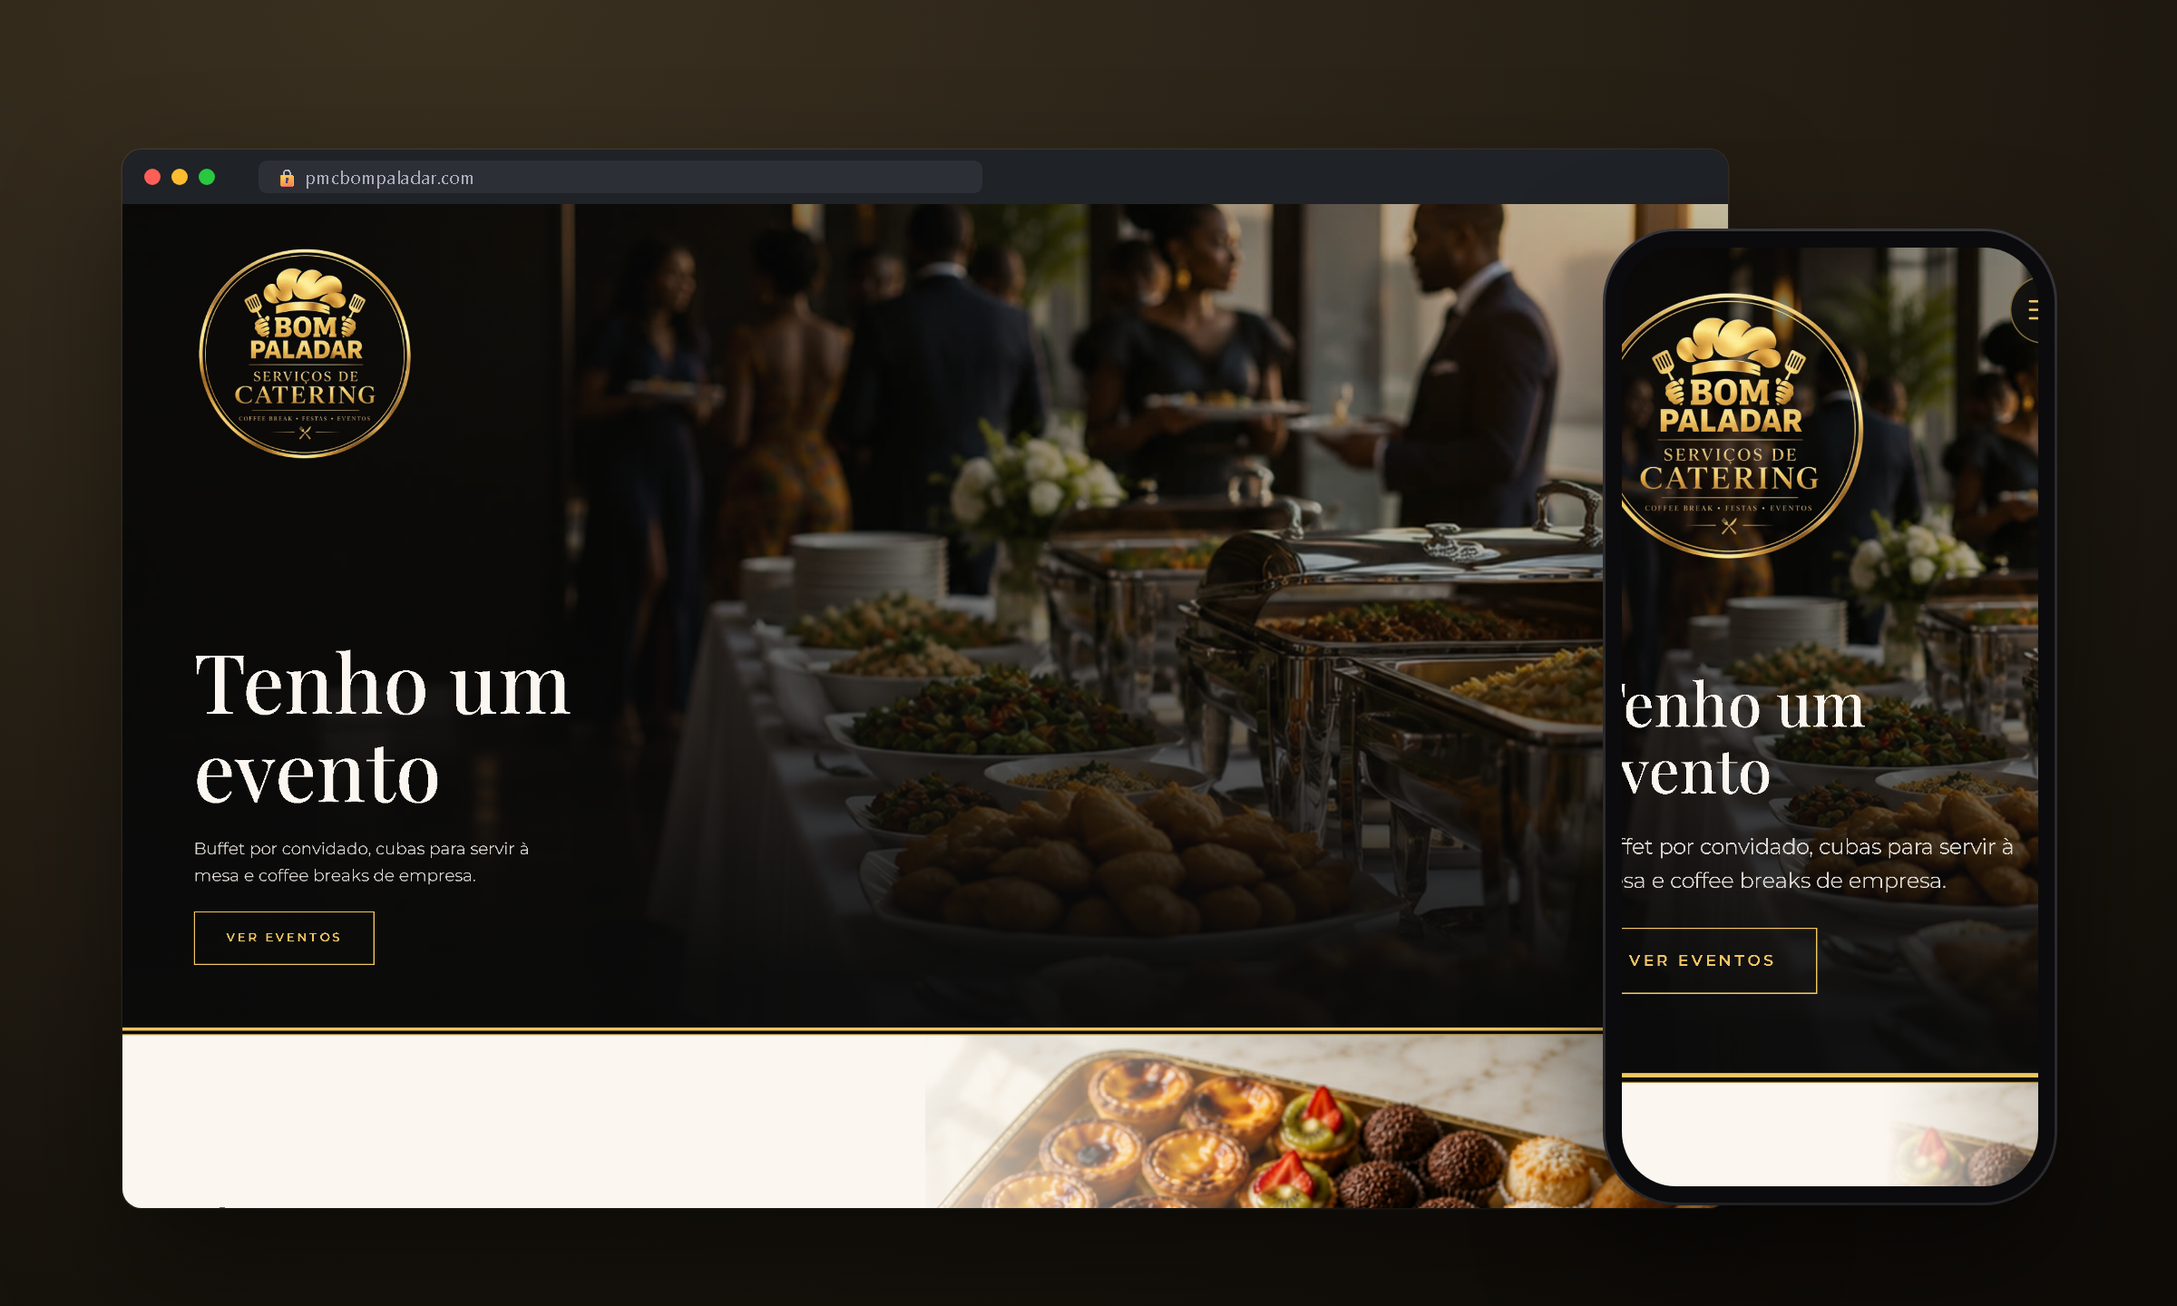
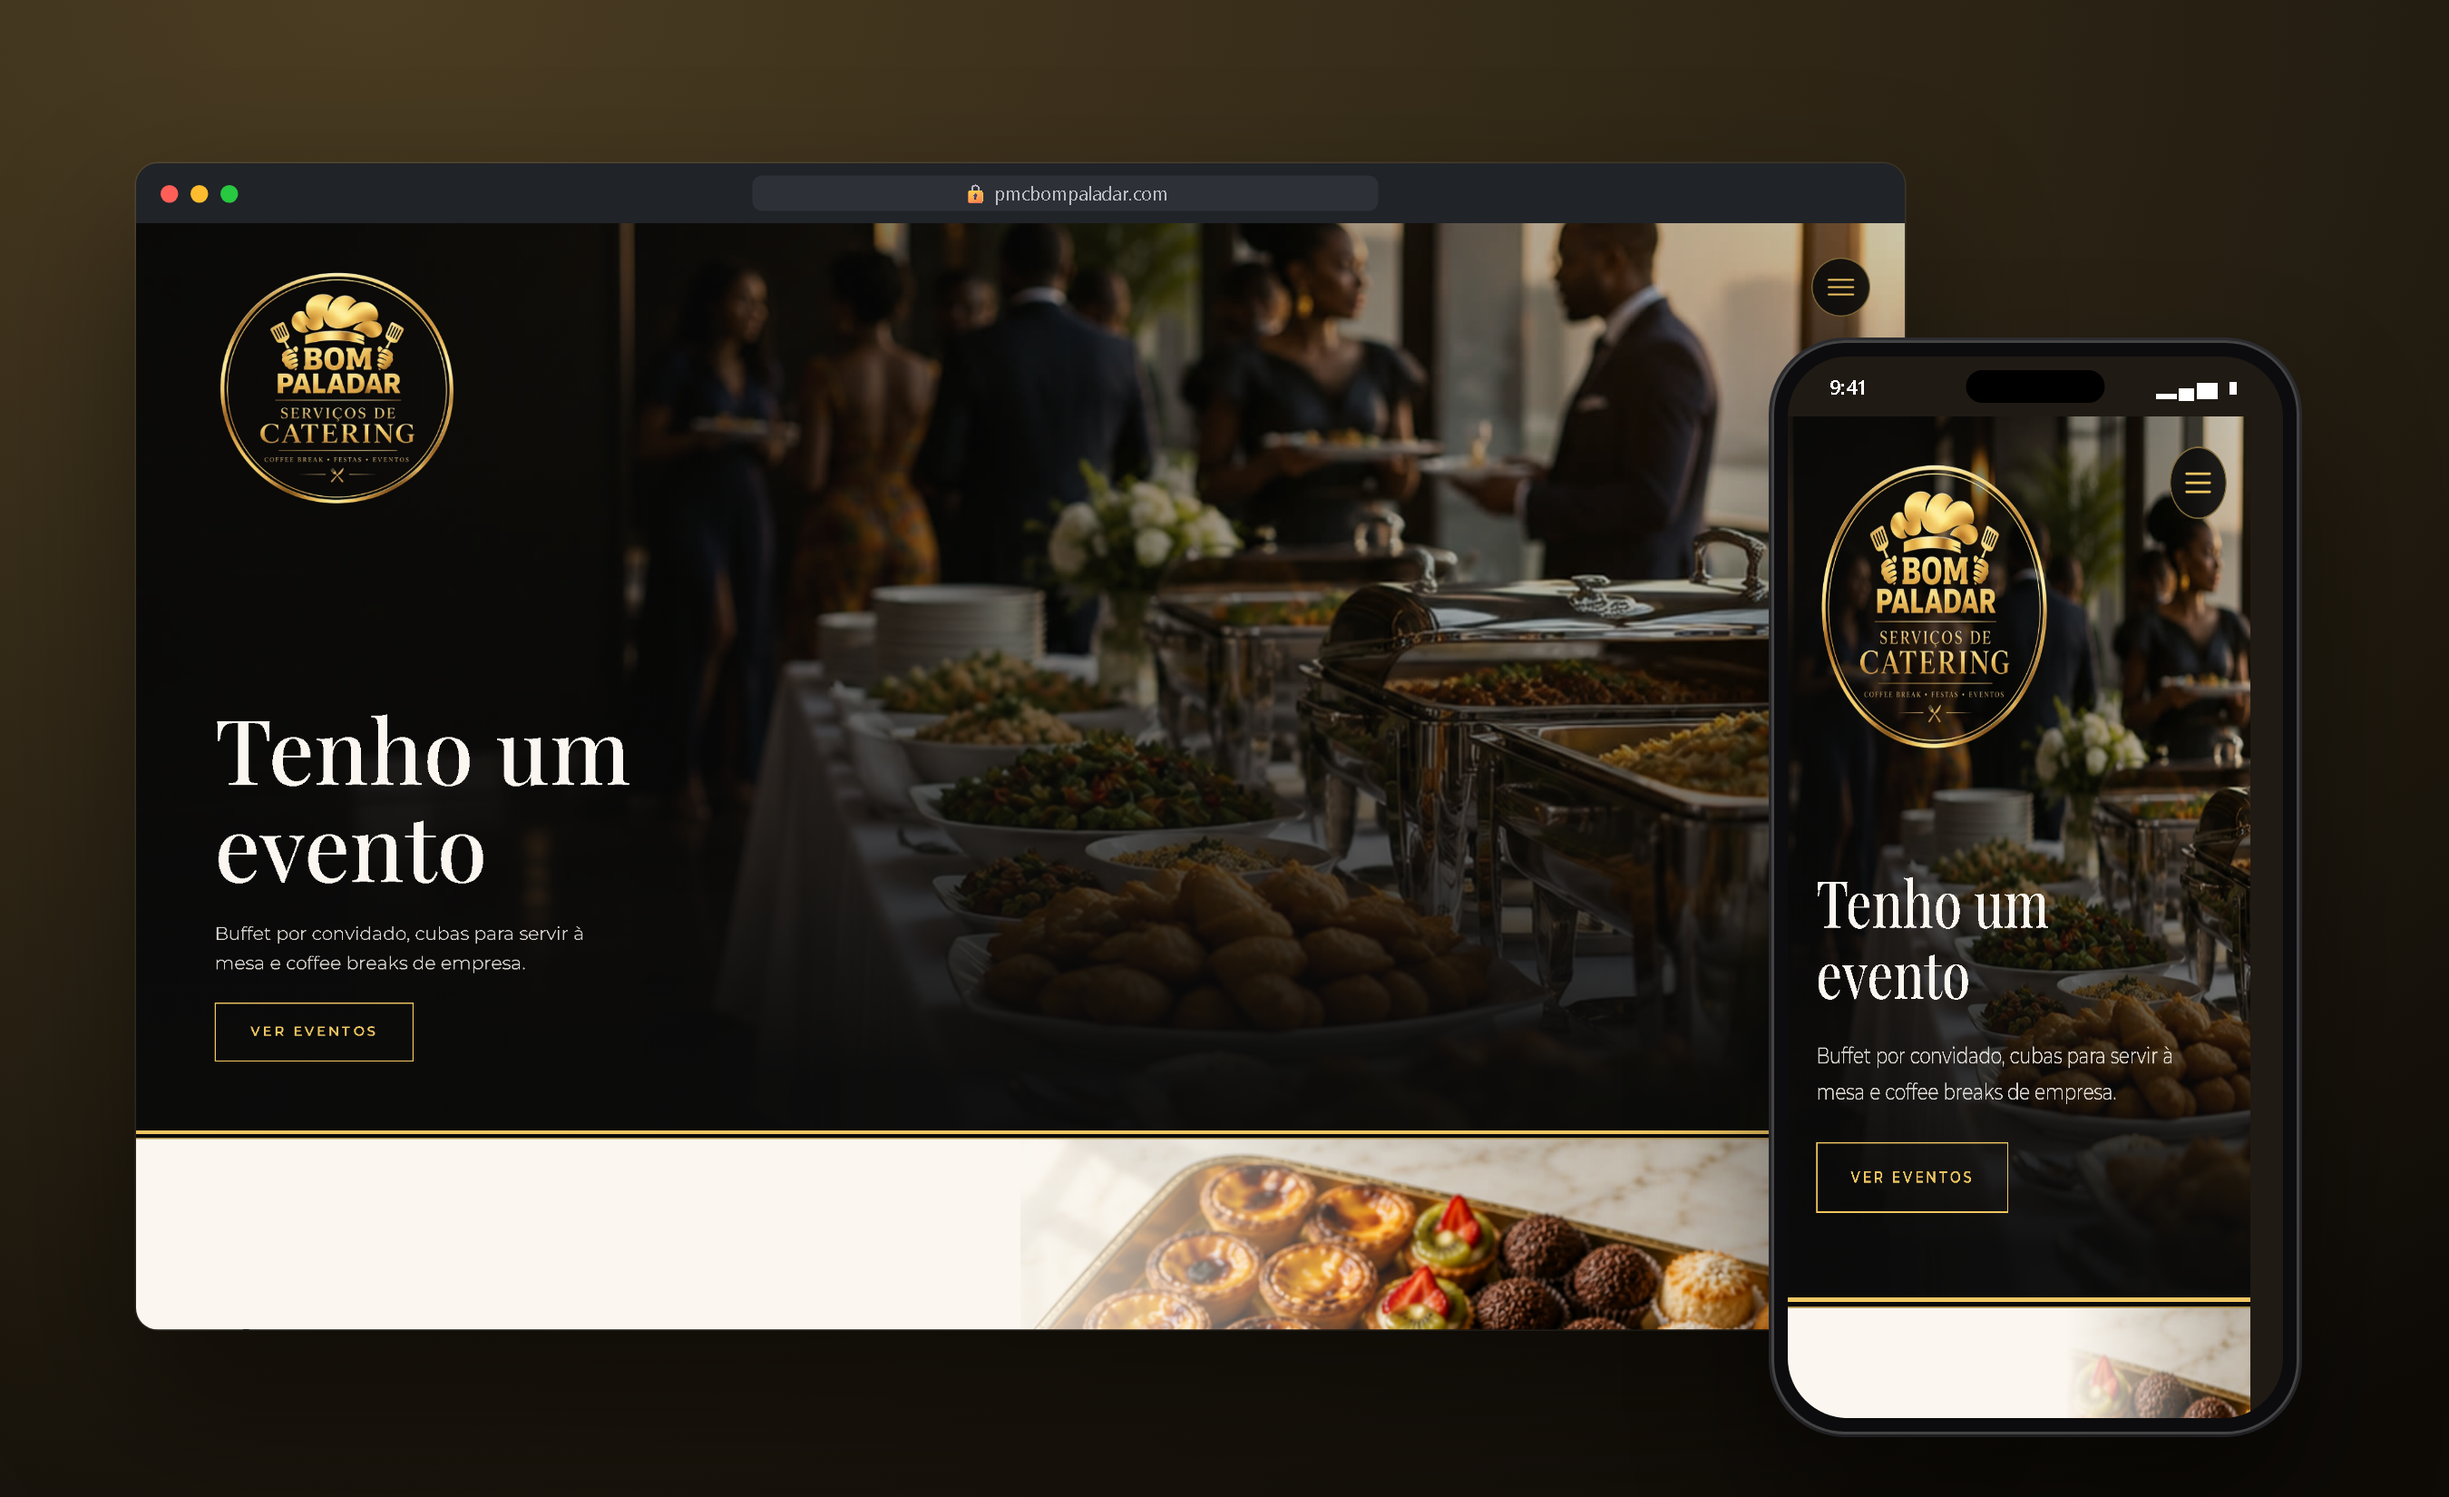
Professional screenshots: device mockups, three mobile screens, desktop

Changed region(s): [[0.0312, 0.125, 0.9688, 0.9688], [0.0625, 0.4688, 0.2812, 0.7188]]

diff --git a/README.md b/README.md
@@ -13,14 +13,17 @@ Website for Bom Paladar, a catering business in Luanda, Angola.
 ## Highlights
 
 - **Catalog ordering** by the dozen.
-- **Buffet budget calculator:** enter the number of guests, get a price range, send it on WhatsApp.
-- **Responsive** for mobile and desktop.
+- **Buffet budget calculator:** enter the number of guests, get a price range, send it on WhatsApp in one tap.
+- **Events showcase** for buffets and coffee breaks.
+- **Mobile first** and responsive.
 
-## Screenshots
+## Mobile
 
-| Desktop | Mobile |
-|---|---|
-| <img src="screenshots/desktop.png" width="520"> | <img src="screenshots/mobile.png" width="200"> |
+<img src="screenshots/mobile.png" alt="Bom Paladar · Catering Website mobile screens" width="100%">
+
+## Desktop
+
+<img src="screenshots/desktop.png" alt="Bom Paladar · Catering Website desktop" width="100%">
 
 ## Stack
 
@@ -36,4 +39,8 @@ The source code is private because it belongs to the client. I am happy to walk 
 
 ---
 
-Built by **[Erick Rodrigues](https://github.com/Erickrodrigues05)**, Full-Stack Developer · erickrodrigues781@gmail.com
+<div align="center">
+
+Built by **[Erick Rodrigues](https://github.com/Erickrodrigues05)**, Full-Stack Developer · [erickrodrigues781@gmail.com](mailto:erickrodrigues781@gmail.com)
+
+</div>
